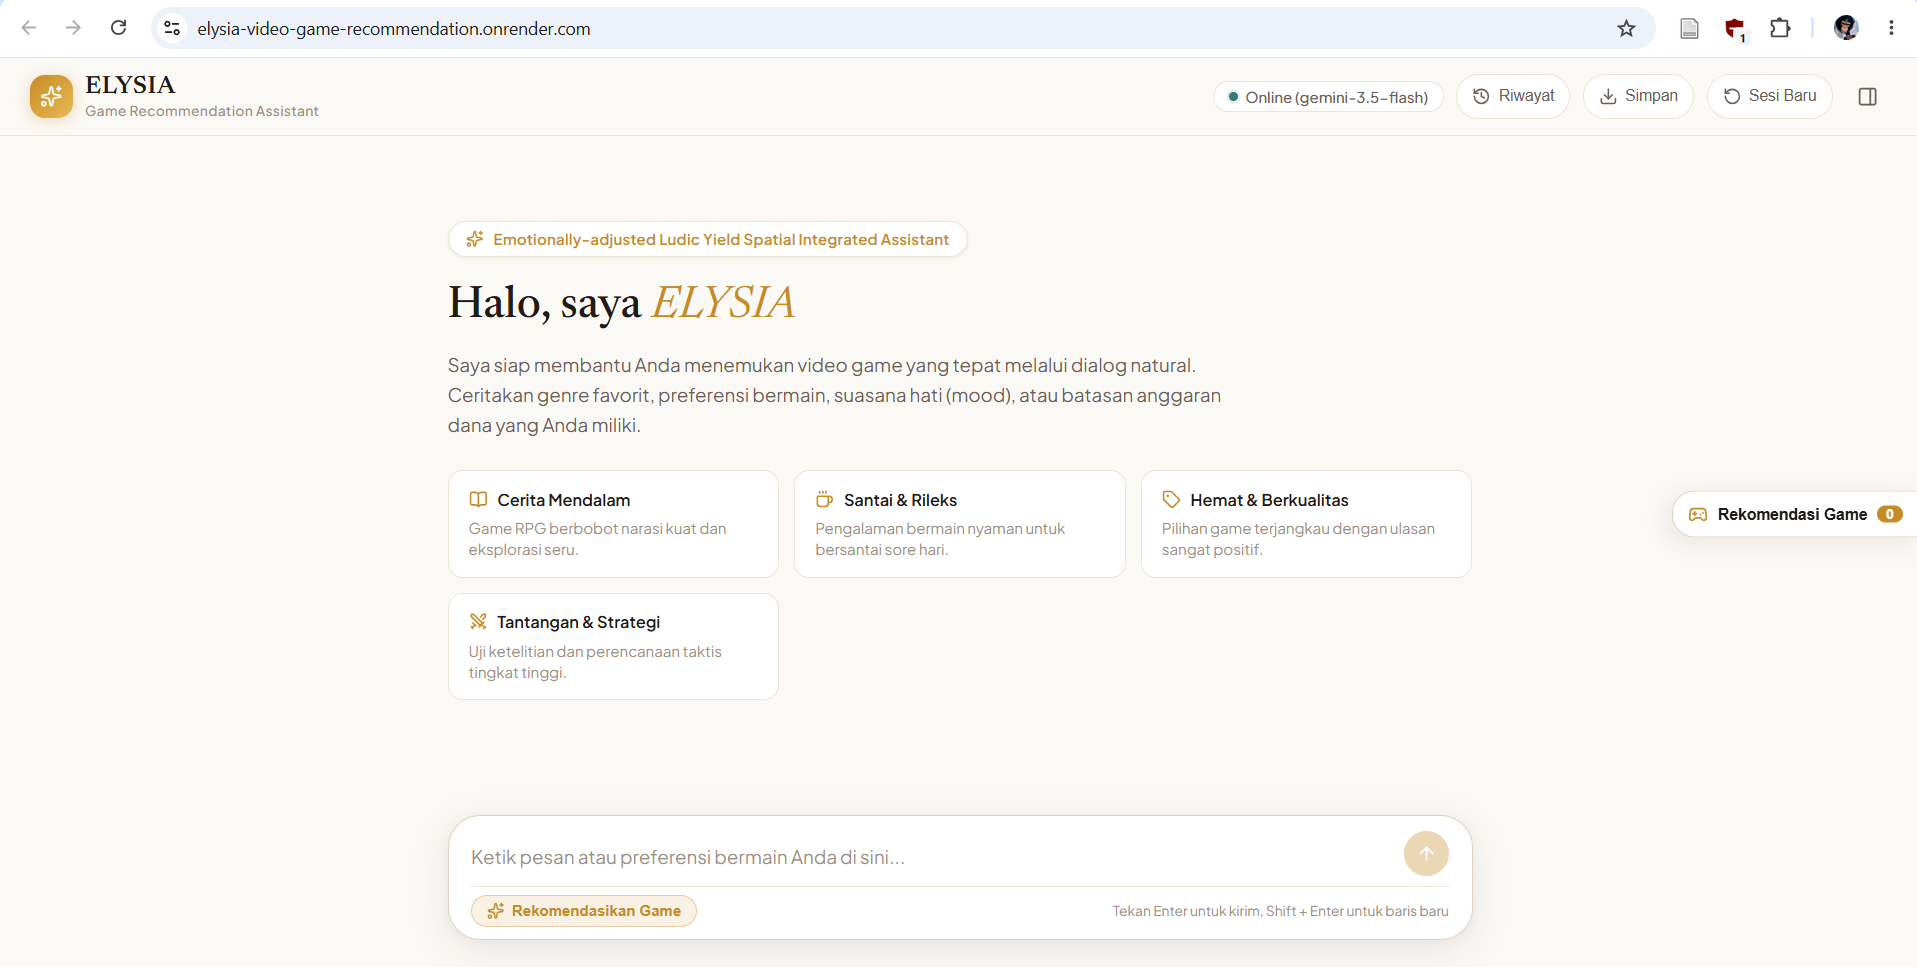
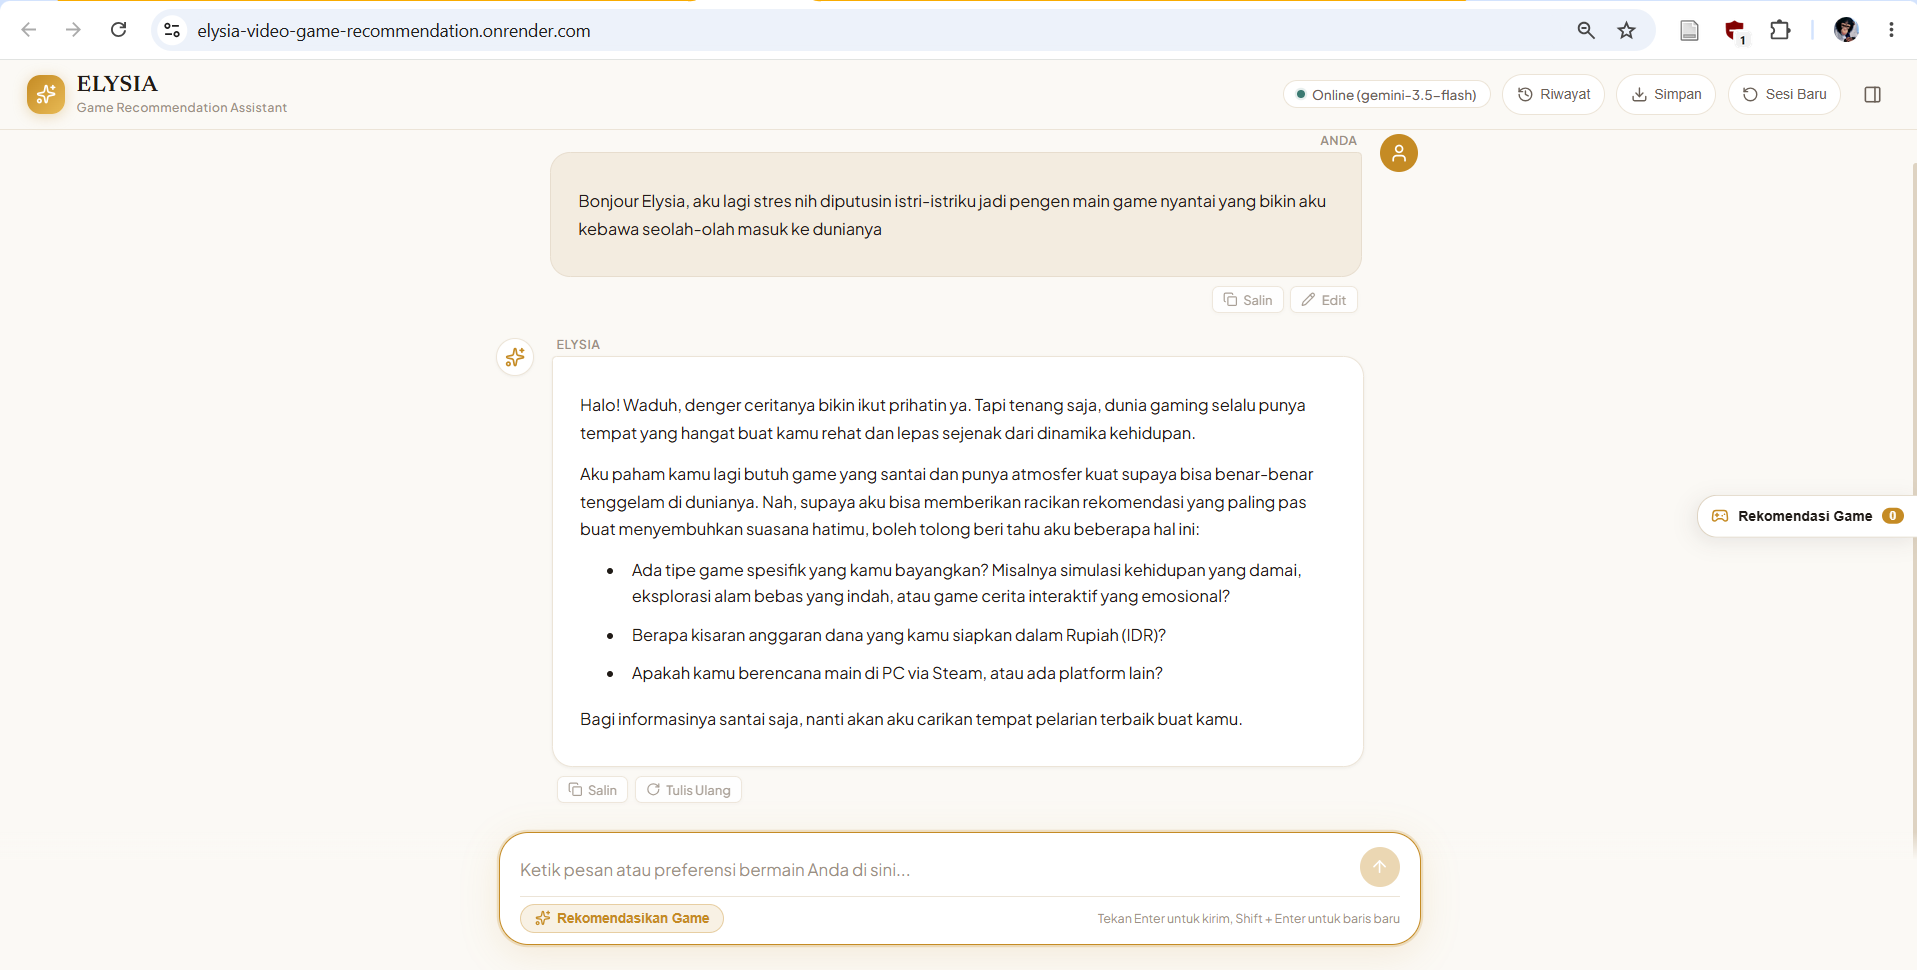
Docs: Mengumpulkan semua tampilan yang ada pada website

diff --git a/screenshots/Chatbot Website.md b/screenshots/Chatbot Website.md
@@ -1,1 +1,22 @@
+Tampilan Awal Website
 ![alt text](image.png)
+
+Tampilan chat part 1
+![alt text](image.png)
+
+Tampilan chat part 2
+![alt text](image-1.png)
+
+Tampilan setelah menekan "Rekomendasikan Game"
+![alt text](image-2.png)
+![alt text](image-3.png)
+![alt text](image-4.png)
+
+Tampilan history percakapan pada menu "Riwayat" | Jika sudah menekan tombol "Simpan"
+![alt text](image-5.png)
+![alt text](image-9.png)
+
+Percobaan lain
+![alt text](image-6.png)
+![alt text](image-7.png)
+![alt text](image-8.png)
